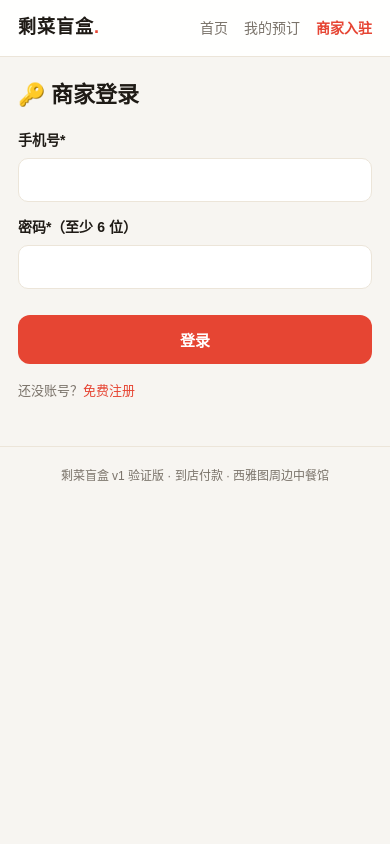
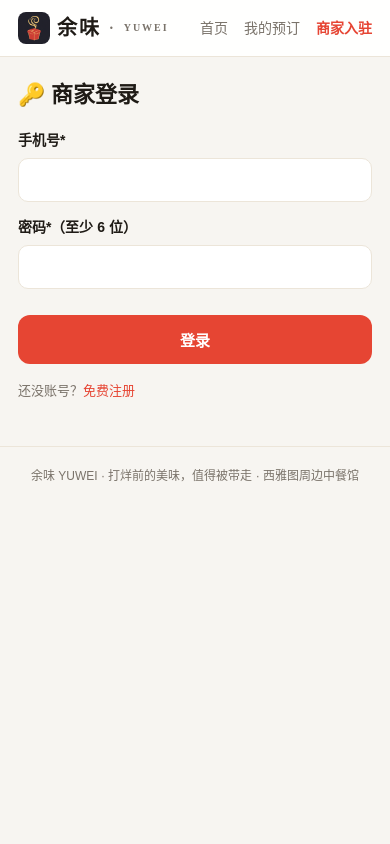
标语改顺口版 + 余味宋体字标

Changed region(s): [[0.0923, 0.5545, 0.9231, 0.5853], [0.0308, 0.0, 0.2462, 0.0616], [0.3692, 0.0308, 0.4, 0.0616]]

diff --git a/public/style.css b/public/style.css
@@ -21,7 +21,8 @@ a { color: var(--pri); text-decoration: none; }
 .topbar { background: rgba(255,255,255,.92); backdrop-filter: blur(10px);
   border-bottom: 1px solid var(--line); position: sticky; top: 0; z-index: 10; }
 .topbar .wrap { display: flex; align-items: center; justify-content: space-between; height: 56px; }
-.logo { font-weight: 800; font-size: 18px; color: var(--ink); letter-spacing: 2px; display: flex; align-items: center; gap: 8px; }
+.logo { font-family: "Noto Serif SC", "Songti SC", "STSong", serif; font-weight: 900; font-size: 20px; color: var(--ink); letter-spacing: 2px; display: flex; align-items: center; gap: 7px; flex-shrink: 0; white-space: nowrap; }
+.topbar nav { white-space: nowrap; }
 .logo-img { width: 32px; height: 32px; border-radius: 8px; }
 .logo i { font-style: normal; color: var(--mut); font-weight: 400; }
 .logo small { font-size: 10px; letter-spacing: 2px; color: var(--mut); font-weight: 600; }
@@ -36,7 +37,7 @@ a { color: var(--pri); text-decoration: none; }
   background: linear-gradient(100deg, rgba(10,7,4,.82) 0%, rgba(10,7,4,.45) 55%, rgba(10,7,4,.05) 100%); }
 .hero-inner { position: relative; z-index: 1; padding: 34px 24px; color: #fff; max-width: 78%; }
 .hero-kicker { font-size: 12px; letter-spacing: 3px; color: var(--gold); font-weight: 700; margin-bottom: 10px; }
-.hero h1 { margin: 0 0 10px; font-size: 27px; line-height: 1.4; font-weight: 800; letter-spacing: .5px; }
+.hero h1 { margin: 0 0 10px; font-size: 27px; line-height: 1.45; font-weight: 900; letter-spacing: 1px; font-family: "Noto Serif SC", "Songti SC", "STSong", serif; }
 .hero p { margin: 0 0 18px; font-size: 14px; color: rgba(255,255,255,.82); }
 .hero .btn { background: var(--pri); box-shadow: 0 6px 20px rgba(230,69,51,.4); }
 

diff --git a/lib/views.js b/lib/views.js
@@ -25,6 +25,8 @@ function layout(title, body, active) {
 <meta name="viewport" content="width=device-width, initial-scale=1, viewport-fit=cover">
 <title>${esc(title)} · 余味 YUWEI</title>
 <link rel="icon" type="image/png" href="/img/logo.png">
+<link rel="preconnect" href="https://fonts.googleapis.com">
+<link href="https://fonts.googleapis.com/css2?family=Noto+Serif+SC:wght@600;700;900&display=swap" rel="stylesheet">
 <link rel="stylesheet" href="/style.css"></head>
 <body>
 <header class="topbar"><div class="wrap">
@@ -32,7 +34,7 @@ function layout(title, body, active) {
   <nav>${nav('/', '首页', 'home')}${nav('/my', '我的预订', 'my')}${nav('/join', '商家入驻', 'join')}</nav>
 </div></header>
 <main class="wrap">${body}</main>
-<footer class="foot"><div class="wrap">余味 YUWEI · 打烊前的美味，别让它进垃圾桶 · 西雅图周边中餐馆</div></footer>
+<footer class="foot"><div class="wrap">余味 YUWEI · 打烊前的美味，值得被带走 · 西雅图周边中餐馆</div></footer>
 </body></html>`;
 }
 
@@ -70,7 +72,7 @@ function home(boxes) {
     <section class="hero">
       <div class="hero-inner">
         <div class="hero-kicker">余味 YUWEI · 打烊集市</div>
-        <h1>打烊前的美味，<br>不该进垃圾桶</h1>
+        <h1>打烊前的美味，<br>值得被带走</h1>
         <p>西雅图周边中餐馆的每日剩菜盲盒——低价尝鲜，减少浪费。在线预订，到店自取。</p>
         <a class="btn" href="#today">看看今日盲盒</a>
       </div>
